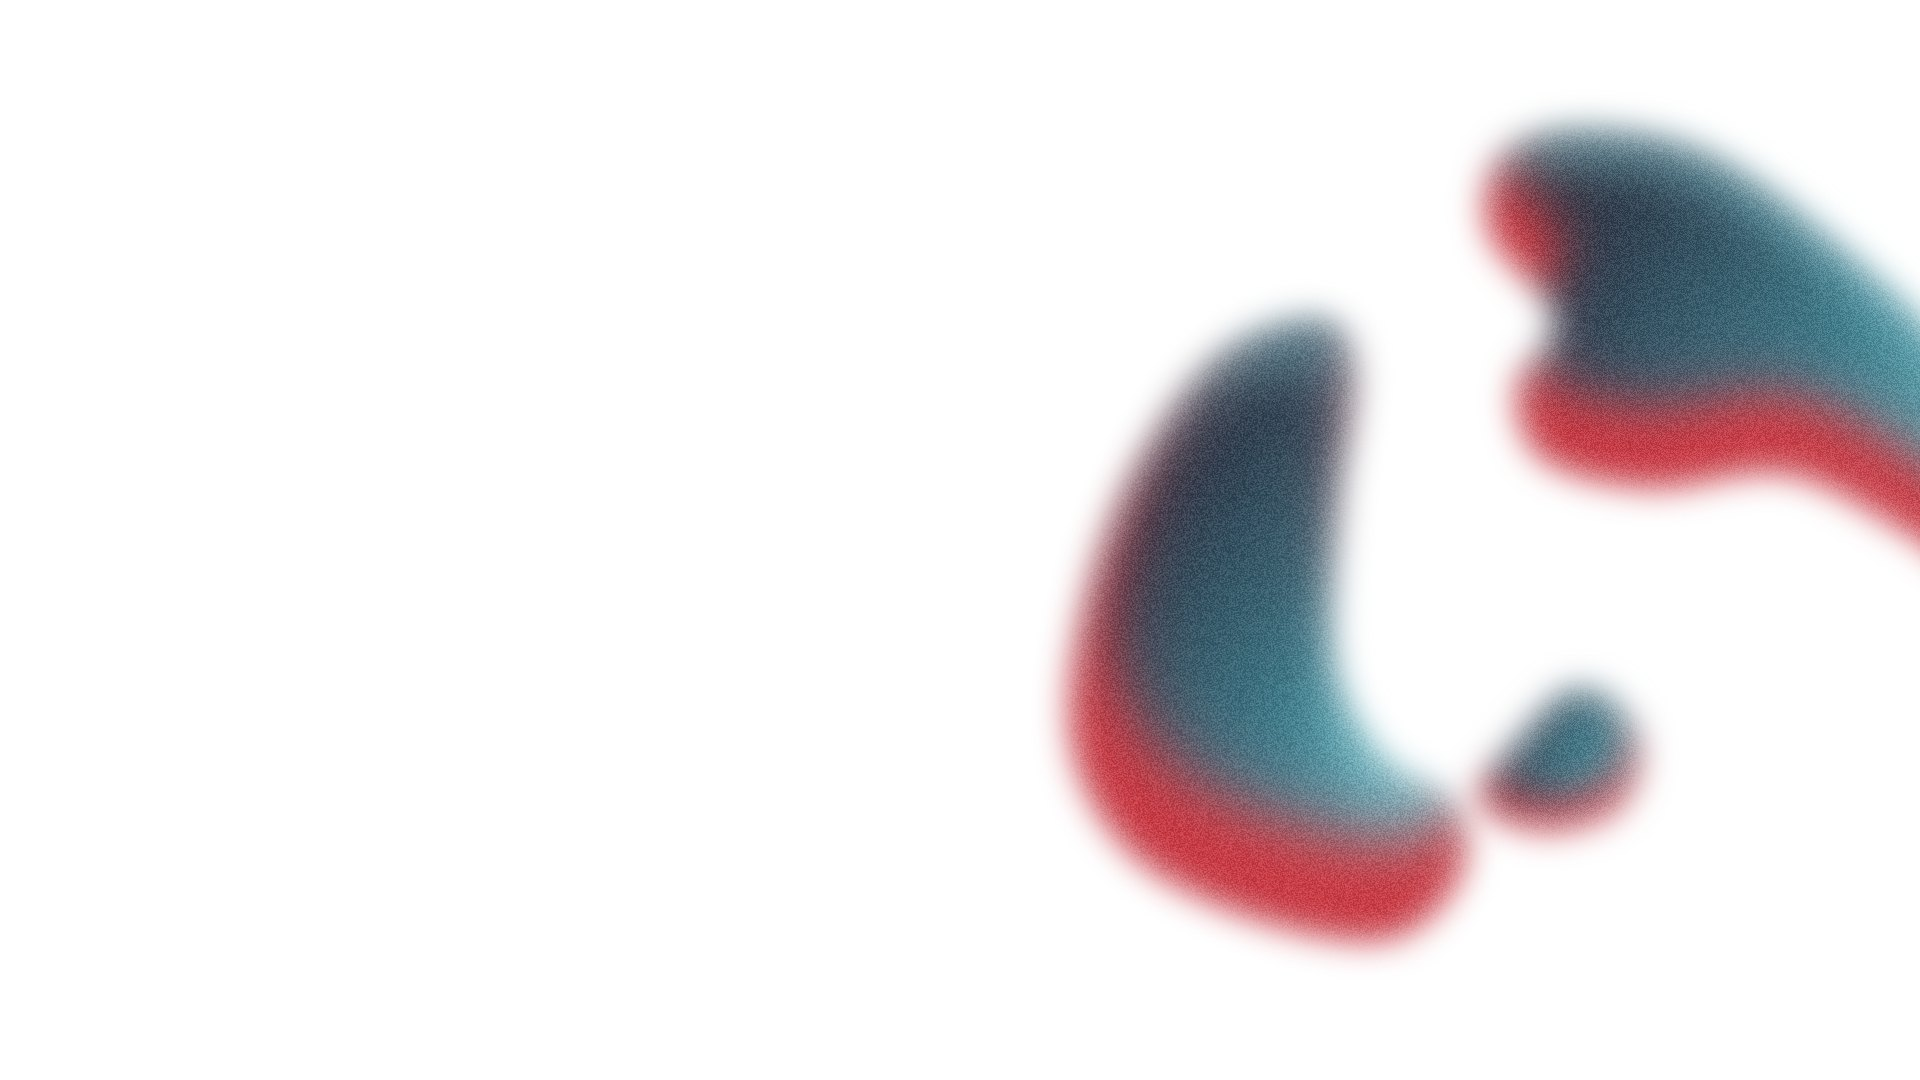
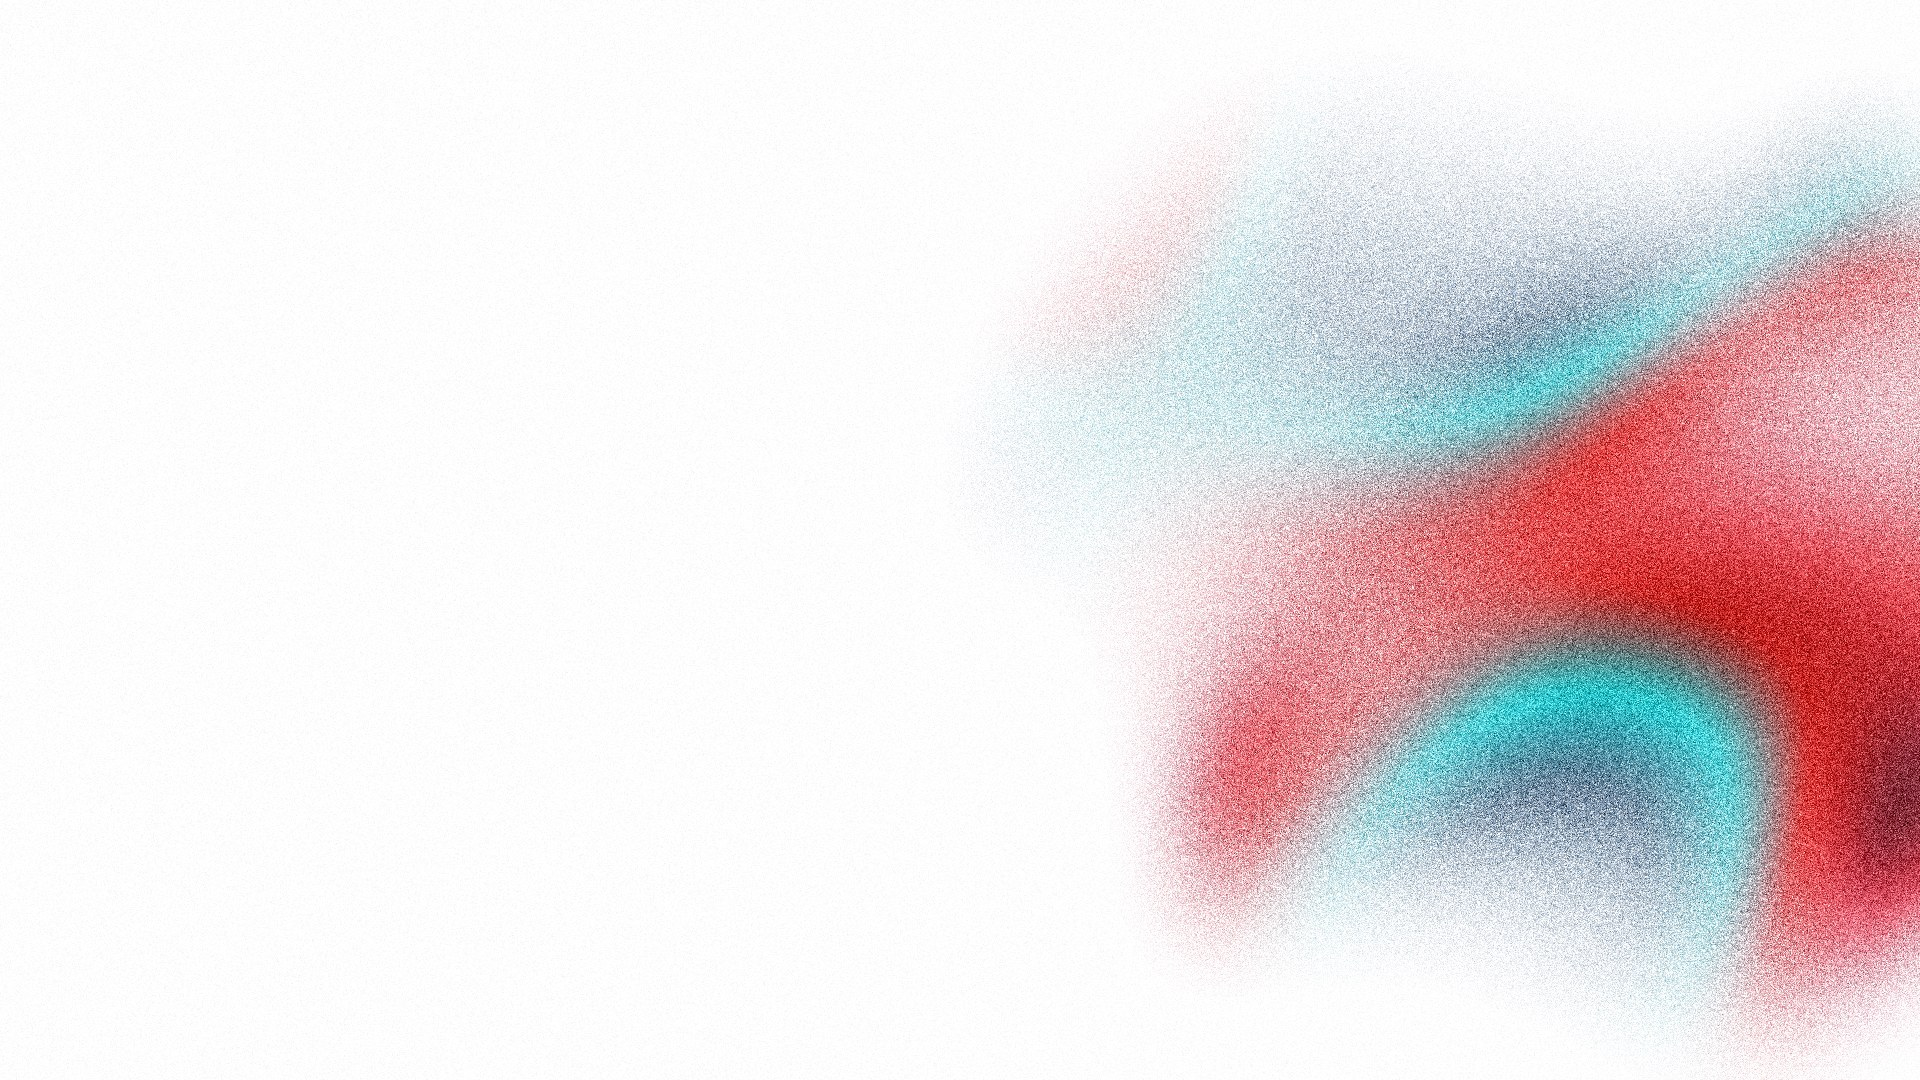
Replace the shape family with the Noisia bloom
The outlined shapes read too literal. make_shapes.py now renders an
abstract colour field: domain-warped density that dissolves into white
through dithered grain, muted cyan and red that saturate towards the
official #00EEEE and #EE0B00 where the field is densest, a deep navy
core, and intense grain. Covers, statements and closings carry a large
bloom on the right; content slides a small faint one on an edge.

diff --git a/packages/pitch-kit/commercial/builder/make_shapes.py b/packages/pitch-kit/commercial/builder/make_shapes.py
@@ -1,208 +1,133 @@
 #!/usr/bin/env python3
 """
-make_shapes.py — the Noisia shape family for commercial decks, rendered by code.
+make_shapes.py — the Noisia bloom: abstract colour fields for commercial covers and backgrounds.
 
-    python3 commercial/builder/make_shapes.py --sheet out.png       # the family, to choose
-    python3 commercial/builder/make_shapes.py --build                # writes assets/shapes/*.png
+    python3 commercial/builder/make_shapes.py --build            # writes assets/shapes/*.jpg
+    python3 commercial/builder/make_shapes.py --build --only cover,closing
+    python3 commercial/builder/make_shapes.py --sheet out.png    # every composition, to review
 
-The shapes replace the people illustration on covers and closings, and appear as a faint
-fragment on content slides. They follow the method of the brand's Figma explorations:
+What it draws, as agreed with the brand (oct 2026): no outlined shape the eye can name, but a
+colour field that blooms and dissolves into the white canvas.
 
-  · an organic closed path (a smooth spline through hand-placed points, never random);
-  · a linear gradient fill, cyan to deep teal to charcoal;
-  · three inner shadows: cyan #95E6F1 at 40% from the top (y +66, blur 24), and red #FF464C
-    (y -106, blur 30) plus #C7313D (y -116, blur 64) from the bottom, which give the red rim;
-  · a layer blur of 64;
-  · duo noise on top: black and white at 25%, 90% density, 1.5px grain.
+  · Density: a few anisotropic gaussian blobs, domain-warped by low-frequency waves so the field
+    flows like a mesh gradient and never reads as a drawn object.
+  · Colour: a second warped field places cyan and red. At the edges they are muted and dusty; where
+    the field is densest they saturate towards the official #00EEEE and #EE0B00, and the very core
+    sinks into the brand's deep #061218.
+  · Edges: the alpha falls off with a long smoothstep and is dithered with grain, so the colour
+    dissolves into white with no rim or halo.
+  · Grain: intense luminance noise over the colour, a whisper over the white. The grain is what
+    sets these apart from a generic gradient.
 
-Everything is measured on the 1920x1080 slide, so a shape drawn at slide size here looks the
-same as in Figma. Output is RGBA PNG, composed later on white by the builder.
+Covers, statements and closings carry a large bloom on the right (text lives on the left). Content
+slides carry a small, faint bloom on the middle of an edge: every corner holds chrome (logo,
+noisia.ai, the tagline, the slide number). Output is opaque JPEG on white, used as the slide
+background by noisia_pptx.py.
 """
 import argparse, math, os, warnings
-warnings.filterwarnings("ignore", category=DeprecationWarning)
 import numpy as np
-from PIL import Image, ImageDraw, ImageFilter
+from PIL import Image, ImageFilter
 
+warnings.filterwarnings("ignore", category=DeprecationWarning)
 HERE = os.path.dirname(os.path.abspath(__file__))
 OUT = os.path.normpath(os.path.join(HERE, "..", "assets", "shapes"))
 
-# Points are fractions of the shape's own box, clockwise. Drawn to match the explorations.
-SHAPES = {
-    "crescent": [(0.30, 0.02), (0.42, 0.08), (0.48, 0.30), (0.58, 0.55), (0.75, 0.68), (0.95, 0.72),
-                 (1.00, 0.84), (0.88, 0.97), (0.55, 1.00), (0.25, 0.95), (0.05, 0.78), (0.00, 0.45),
-                 (0.10, 0.15)],
-    "wing": [(0.02, 0.06), (0.16, 0.00), (0.40, 0.05), (0.66, 0.26), (0.92, 0.56), (1.00, 0.82),
-             (0.92, 0.97), (0.78, 0.86), (0.55, 0.73), (0.30, 0.76), (0.10, 0.70), (0.05, 0.55),
-             (0.12, 0.40), (0.00, 0.22)],
-    "drop": [(0.55, 0.00), (0.85, 0.10), (1.00, 0.45), (0.85, 0.85), (0.45, 1.00), (0.10, 0.90),
-             (0.00, 0.70), (0.20, 0.40)],
-    "star": [(0.00, 0.44), (0.14, 0.32), (0.36, 0.30), (0.47, 0.12), (0.56, 0.02), (0.65, 0.14),
-             (0.72, 0.30), (0.90, 0.34), (1.00, 0.60), (0.86, 0.90), (0.45, 1.00), (0.20, 0.93),
-             (0.07, 0.76)],
-    "drip": [(0.00, 0.00), (1.00, 0.00), (1.00, 0.12), (0.76, 0.30), (0.59, 0.42), (0.545, 0.64),
-             (0.52, 0.78), (0.495, 0.64), (0.46, 0.42), (0.30, 0.33), (0.04, 0.30)],
-    "pebble": [(0.20, 0.05), (0.60, 0.00), (0.92, 0.18), (1.00, 0.55), (0.80, 0.92), (0.40, 1.00),
-               (0.08, 0.82), (0.00, 0.40)],
-}
+CYAN, RED, DEEP = (0, 238, 238), (238, 11, 0), (6, 18, 24)          # tokens: signal, tension, blob-dark
+NAVY = (14, 42, 68)                                                 # the deep blue of the reference
+MUTED = {"cyan": (112, 190, 202), "red": (214, 104, 116),            # what the colour fades into
+         "navy": (96, 126, 156), "pink": (232, 162, 178)}
 
-STOPS = [(0.0, (124, 214, 221)), (0.42, (62, 128, 144)), (0.78, (43, 59, 76)), (1.0, (42, 39, 51))]
-SHADOWS = [  # colour, alpha, dx, dy, blur
-    ((149, 230, 241), 0.40, 3, 66, 24),
-    ((255, 70, 76), 0.90, 0, -106, 30),
-    ((199, 49, 61), 0.85, 0, -116, 64),
-]
-LAYER_BLUR = 64
-
-
-def catmull(points, n=40):
-    pts = points + points[:3]
-    out = []
-    for i in range(len(points)):
-        p0, p1, p2, p3 = pts[i], pts[i + 1], pts[i + 2], pts[i + 3]
-        for t in np.linspace(0, 1, n, endpoint=False):
-            t2, t3 = t * t, t * t * t
-            x = 0.5 * ((2 * p1[0]) + (-p0[0] + p2[0]) * t + (2 * p0[0] - 5 * p1[0] + 4 * p2[0] - p3[0]) * t2
-                       + (-p0[0] + 3 * p1[0] - 3 * p2[0] + p3[0]) * t3)
-            y = 0.5 * ((2 * p1[1]) + (-p0[1] + p2[1]) * t + (2 * p0[1] - 5 * p1[1] + 4 * p2[1] - p3[1]) * t2
-                       + (-p0[1] + 3 * p1[1] - 3 * p2[1] + p3[1]) * t3)
-            out.append((x, y))
-    return out
-
-
-def blur(a, sigma):
-    """Gaussian blur of a float array through PIL (sigma in px)."""
-    if sigma <= 0:
-        return a
-    im = Image.fromarray(np.clip(a * 255, 0, 255).astype(np.uint8), "L")
-    return np.asarray(im.filter(ImageFilter.GaussianBlur(sigma)), dtype=np.float32) / 255
-
-
-def shift(a, dx, dy):
-    out = np.zeros_like(a)
-    h, w = a.shape
-    xs, xd = (slice(0, w - dx), slice(dx, w)) if dx >= 0 else (slice(-dx, w), slice(0, w + dx))
-    ys, yd = (slice(0, h - dy), slice(dy, h)) if dy >= 0 else (slice(-dy, h), slice(0, h + dy))
-    out[yd, xd] = a[ys, xs]
-    return out
-
-
-def render(name, w, h, angle=200, seed=7):
-    """One shape, w x h px at slide scale, as an RGBA image with room for its blur."""
-    pad = int(LAYER_BLUR * 1.6)
-    W, H = w + 2 * pad, h + 2 * pad
-    ss = 2
-    big = Image.new("L", (W * ss, H * ss), 0)
-    pts = [((pad + x * w) * ss, (pad + y * h) * ss) for x, y in catmull(SHAPES[name])]
-    ImageDraw.Draw(big).polygon(pts, fill=255)
-    mask = np.asarray(big.resize((W, H), Image.LANCZOS), dtype=np.float32) / 255
-
-    # linear gradient across the shape's box
-    yy, xx = np.mgrid[0:H, 0:W].astype(np.float32)
-    a = math.radians(angle)
-    proj = (xx - W / 2) * math.cos(a) + (yy - H / 2) * math.sin(a)
-    span = abs(w * math.cos(a)) + abs(h * math.sin(a))
-    t = np.clip(proj / span + 0.5, 0, 1)
-    rgb = np.zeros((H, W, 3), np.float32)
-    for c in range(3):
-        rgb[..., c] = np.interp(t, [s[0] for s in STOPS], [s[1][c] for s in STOPS])
-
-    # inner shadows: where the shifted shape does not cover, inside the shape
-    k = h / 730   # the Figma values were set on a shape about 730px tall; scale them with the shape
-    for col, op, dx, dy, b in SHADOWS:
-        outside = 1 - shift(mask, int(round(dx * k)), int(round(dy * k)))
-        sh = blur(outside, b * 0.8 * max(k, 0.4)) * mask * op
-        for c in range(3):
-            rgb[..., c] = rgb[..., c] * (1 - sh) + col[c] * sh
-
-    # layer blur on premultiplied colour
-    alpha = mask
-    pre = rgb * alpha[..., None]
-    sig = LAYER_BLUR / 4   # Figma's blur value reads as roughly 4x a gaussian sigma
-    pre = np.stack([blur(pre[..., c] / 255, sig) * 255 for c in range(3)], -1)
-    alpha = blur(alpha, sig)
-    rgb = np.where(alpha[..., None] > 1e-4, pre / np.maximum(alpha[..., None], 1e-4), 0)
-
-    # duo noise, 1.5px grain, 90% density, black and white at 25%
-    rnd = np.random.default_rng(seed)
-    gw, gh = W, H
-    g = rnd.random((gh, gw))
-    d = rnd.random((gh, gw)) < 0.9
-    grain = np.where(d, np.where(g < 0.5, -1.0, 1.0), 0.0).astype(np.float32)
-    grain = np.asarray(Image.fromarray(((grain + 1) * 127.5).astype(np.uint8)).resize((W, H), Image.NEAREST),
-                       dtype=np.float32) / 127.5 - 1
-    k = 0.085 * 255 * grain[..., None] * np.clip(alpha[..., None] * 1.6, 0, 1)
-    rgb = np.clip(rgb + np.where(k > 0, k * (1 - rgb / 255), k * (rgb / 255)), 0, 255)
-
-    out = np.dstack([rgb, alpha * 255]).astype(np.uint8)
-    return Image.fromarray(out), pad
-
-
-def place(canvas, name, box, rot=0, flip=False, opacity=1.0, angle=200, seed=7):
-    """Render `name` to fit box=(x, y, w, h) on the slide, rotate, and alpha-composite it."""
-    x, y, w, h = box
-    im, pad = render(name, w, h, angle, seed)
-    if flip:
-        im = im.transpose(Image.FLIP_LEFT_RIGHT)
-    if rot:
-        im = im.rotate(rot, resample=Image.BICUBIC, expand=True)
-    if opacity < 1:
-        r, g, b, a = im.split()
-        im = Image.merge("RGBA", (r, g, b, a.point(lambda v: int(v * opacity))))
-    cx, cy = x + w / 2, y + h / 2
-    canvas.alpha_composite(im, (int(cx - im.width / 2), int(cy - im.height / 2))) if \
-        cx - im.width / 2 >= 0 and cy - im.height / 2 >= 0 else _paste(canvas, im, cx - im.width / 2, cy - im.height / 2)
-
-
-def _paste(canvas, im, x, y):
-    x, y = int(x), int(y)
-    sx, sy = max(0, -x), max(0, -y)
-    crop = im.crop((sx, sy, min(im.width, canvas.width - x), min(im.height, canvas.height - y)))
-    canvas.alpha_composite(crop, (max(0, x), max(0, y)))
-
-
-# Compositions on the 1920x1080 slide. Covers keep the left 1000px clean for the copy.
+# Each composition: seed, blobs (cx, cy, rx, ry, rotation, weight) in canvas fractions, overall
+# strength (1 = covers, lower = content backgrounds), and the red share of the colour field (0..1).
 COMPOSITIONS = {
-    "cover": [("crescent", (1090, 320, 440, 600), -18, False, 1.0, 200, 1),
-              ("drop", (1480, 690, 160, 140), 0, False, 1.0, 210, 2),
-              ("wing", (1490, 130, 540, 470), 0, False, 1.0, 215, 3)],
-    "closing": [("star", (1060, 260, 860, 640), -8, False, 1.0, 205, 4),
-                ("drop", (1640, 860, 150, 130), 20, False, 1.0, 210, 5)],
-    "statement": [("drip", (700, -40, 1300, 560), 0, False, 1.0, 190, 6)],
-    # content fragments: one per slide, rotating corners, faint
-    # Content fragments sit on the middle of an edge: every corner carries chrome (logo,
-    # noisia.ai, the tagline, the slide number) and a shape behind it hurts legibility.
-    "frag-1": [("wing", (1700, 300, 560, 480), 0, False, 0.36, 215, 11)],
-    "frag-2": [("crescent", (820, 900, 420, 520), 80, False, 0.34, 200, 12)],
-    "frag-3": [("pebble", (-300, 420, 460, 400), 0, False, 0.34, 205, 13)],
-    "frag-4": [("star", (1720, 560, 520, 430), -24, False, 0.34, 205, 14)],
-    "frag-5": [("wing", (1040, 930, 520, 420), 180, False, 0.32, 215, 15)],
-    "frag-6": [("crescent", (-260, 300, 420, 520), 200, True, 0.34, 200, 16)],
-    # A4 one-pager (1191 x 1684): one shape bleeding off the lower right, clear of the logo slot
-    "onepager": [("wing", (930, 1360, 520, 440), 180, False, 0.30, 215, 21)],
+    "cover":     dict(seed=11, strength=1.0, red=0.5,
+                      blobs=[(0.78, 0.42, 0.20, 0.13, 0.5, 1), (0.92, 0.70, 0.16, 0.10, -0.4, 1),
+                             (0.66, 0.70, 0.12, 0.08, 0.9, .8), (0.98, 0.22, 0.14, 0.10, 0.2, .7)]),
+    "closing":   dict(seed=23, strength=1.0, red=0.66, colour=(3, 1.1, 1.6, 0.12),
+                      blobs=[(0.80, 0.55, 0.22, 0.14, -0.3, 1), (0.95, 0.25, 0.14, 0.10, 0.6, .8),
+                             (0.68, 0.82, 0.12, 0.08, 0.2, .7)]),
+    "statement": dict(seed=31, strength=0.95, red=0.55, colour=(3, 1.1, 1.6, 0.12),
+                      blobs=[(0.70, 0.10, 0.26, 0.10, 0.1, 1), (0.95, 0.30, 0.14, 0.12, -0.5, .8),
+                             (0.55, 0.02, 0.14, 0.06, 0.0, .6)]),
+    "frag-1":    dict(seed=41, strength=0.55, red=0.4, colour=(3, 1.0, 1.6, 0.3), blobs=[(0.99, 0.45, 0.13, 0.20, 0.2, 1)]),
+    "frag-2":    dict(seed=42, strength=0.52, red=0.6, colour=(3, 1.0, 1.6, 0.3), blobs=[(0.55, 1.00, 0.20, 0.10, 0.1, 1)]),
+    "frag-3":    dict(seed=43, strength=0.52, red=0.5, colour=(3, 1.0, 1.6, 0.3), blobs=[(0.01, 0.50, 0.12, 0.20, -0.2, 1)]),
+    "frag-4":    dict(seed=44, strength=0.52, red=0.35, colour=(3, 1.0, 1.6, 0.3), blobs=[(0.99, 0.62, 0.13, 0.18, 0.4, 1)]),
+    "frag-5":    dict(seed=45, strength=0.50, red=0.55, colour=(3, 1.0, 1.6, 0.3), blobs=[(0.40, 1.00, 0.19, 0.09, -0.1, 1)]),
+    "frag-6":    dict(seed=46, strength=0.52, red=0.45, colour=(3, 1.0, 1.6, 0.3), blobs=[(0.01, 0.38, 0.12, 0.19, 0.3, 1)]),
+    "onepager":  dict(seed=51, strength=0.5, red=0.5, size=(1191, 1684), colour=(3, 1.0, 1.6, 0.3),
+                      blobs=[(1.0, 0.86, 0.22, 0.10, 0.3, 1)]),
 }
 
 
-SIZES = {"onepager": (1191, 1684)}
+def bloom(seed=11, strength=1.0, red=0.5, blobs=(), size=(1920, 1080), colour=(4, 1.4, 3.2, 0.0)):
+    """`colour` = (waves, amplitude, frequency, floor) of the field that places navy, cyan and
+    red. Fewer, slower waves give broad zones; a floor above 0 keeps navy out of small blooms."""
+    W, H = size
+    S = 4                                       # the field is low frequency: compute at 1/4 size
+    w, h = W // S, H // S
+    rng = np.random.default_rng(seed)
+    yy, xx = np.mgrid[0:h, 0:w].astype(np.float32)
+    X, Y = xx / w, yy / h
+
+    def lowfreq(n, amp, k=3.2):
+        f = np.zeros_like(X)
+        for _ in range(n):
+            kx, ky = rng.uniform(-k, k, 2)
+            f += np.sin((kx * X * 1.7 + ky * Y) * math.pi + rng.uniform(0, 2 * math.pi))
+        return f / n * amp
+
+    Xw, Yw = X + lowfreq(5, 0.16), Y + lowfreq(5, 0.16)
+    D = np.zeros_like(X)
+    for cx, cy, rx, ry, rot, wt in blobs:
+        c, s = math.cos(rot), math.sin(rot)
+        dx, dy = Xw - cx, (Yw - cy) * (h / w)
+        u, v = dx * c + dy * s, -dx * s + dy * c
+        D += wt * np.exp(-((u / rx) ** 2 + (v / ry) ** 2))
+    D /= max(D.max(), 1e-6)
+    alpha = np.clip((D - 0.12) / 0.75, 0, 1)
+    alpha = alpha * alpha * (3 - 2 * alpha) * strength
+
+    # where cyan and where red: a warped field, biased by the composition's red share
+    n, amp, k, floor = colour
+    t = np.clip(0.5 + lowfreq(n, amp, k=k) + (red - 0.5) * 0.8, floor, 1)
+    pos = [0.0, 0.3, 0.62, 1.0]
+    muted = np.array([MUTED["navy"], MUTED["cyan"], MUTED["red"], MUTED["pink"]], np.float32)
+    strong = np.array([NAVY, CYAN, RED, (238, 40, 60)], np.float32)
+    rgb_m = np.stack([np.interp(t, pos, muted[:, k]) for k in range(3)], -1)
+    rgb_s = np.stack([np.interp(t, pos, strong[:, k]) for k in range(3)], -1)
+    # saturate towards the official colours only where the field is dense
+    sat = (np.clip((D - 0.42) / 0.5, 0, 1) ** 1.4 * 0.78)[..., None]
+    rgb = rgb_m * (1 - sat) + rgb_s * sat
+    core = (np.clip((D - 0.78) / 0.22, 0, 1) ** 1.5 * 0.45)[..., None]
+    rgb = rgb * (1 - core) + np.array(DEEP, np.float32) * core
+
+    def up(a, b):
+        im = Image.fromarray(a).resize((W, H), Image.BICUBIC).filter(ImageFilter.GaussianBlur(b))
+        return np.asarray(im, np.float32)
+
+    rgb_f = up(np.clip(rgb, 0, 255).astype(np.uint8), 6)
+    a_full = up((np.clip(alpha, 0, 1) * 255).astype(np.uint8), 10) / 255
+
+    nr = np.random.default_rng(seed + 1000)
+    dither = nr.normal(0, 1, (H, W)).astype(np.float32)
+    a_d = np.clip(a_full + dither * 0.44 * np.sqrt(np.clip(a_full * (1 - a_full), 0, 1)), 0, 1)
+    arr = 255 * (1 - a_d[..., None]) + rgb_f * a_d[..., None]
+    g = nr.normal(0, 1, (H, W)).astype(np.float32)
+    arr = arr + (g * (30 * np.clip(a_full * 1.5, 0, 1) + 4))[..., None]
+    return Image.fromarray(np.clip(arr, 0, 255).astype(np.uint8))
 
 
-def compose(name, base=(255, 255, 255, 255)):
-    c = Image.new("RGBA", SIZES.get(name, (1920, 1080)), base)
-    for shp, box, rot, flip, op, ang, seed in COMPOSITIONS[name]:
-        place(c, shp, box, rot, flip, op, ang, seed)
-    return c
+def compose(name):
+    return bloom(**COMPOSITIONS[name])
 
 
 def sheet(path):
-    tiles = []
-    for name in SHAPES:
-        c = Image.new("RGBA", (900, 700), (255, 255, 255, 255))
-        im, pad = render(name, 560, 460 if name != "drip" else 300)
-        c.alpha_composite(im, ((900 - im.width) // 2, (700 - im.height) // 2))
-        tiles.append(c)
-    W = 3 * 900
-    out = Image.new("RGB", (W, 2 * 700), "white")
+    names = [n for n in COMPOSITIONS if n != "onepager"]
+    tiles = [compose(n).resize((640, 360)) for n in names]
+    out = Image.new("RGB", (3 * 650 + 10, ((len(tiles) + 2) // 3) * 370 + 10), "#444")
     for i, t in enumerate(tiles):
-        out.paste(t.convert("RGB"), ((i % 3) * 900, (i // 3) * 700))
+        out.paste(t, (10 + (i % 3) * 650, 10 + (i // 3) * 370))
     out.save(path)
     return path
 
@@ -220,6 +145,6 @@ if __name__ == "__main__":
         for n in COMPOSITIONS:
             if a.only and n not in a.only.split(","):
                 continue
-            p = os.path.join(OUT, f"{n}.jpg")   # opaque on white; JPEG keeps the grain at a fifth of the weight
-            compose(n).convert("RGB").save(p, quality=86, optimize=True, progressive=True)
+            p = os.path.join(OUT, f"{n}.jpg")
+            compose(n).save(p, quality=88, optimize=True, progressive=True)
             print(p)

diff --git a/packages/pitch-kit/commercial/COMMERCIAL.md b/packages/pitch-kit/commercial/COMMERCIAL.md
@@ -32,15 +32,16 @@ no distingue qué compró de qué le vendieron, y todo empieza a verse hecho en 
 vive en portadas y fondos, nunca en la UI: las cards, la tipografía, los íconos y la retícula son
 los mismos del sistema de diseño.
 
-- **Portada, statement y cierre** llevan la familia de formas de Noisia sobre lienzo blanco, con el
-  texto a la izquierda y la forma a la derecha. Reemplaza a la ilustración de personas, que queda
-  para los estudios.
-- **Las slides de contenido** llevan un fragmento tenue de una forma que sale por la mitad de un
-  borde, nunca por una esquina: en las esquinas viven el logo, `noisia.ai`, el pie y el número.
-- **Las formas se hacen por código** (`builder/make_shapes.py`) con el método de las exploraciones
-  de marca en Figma: trazo orgánico, gradiente lineal de cyan a teal profundo a carbón, tres
-  sombras internas (cyan arriba, rojo `#FF464C` y `#C7313D` abajo), blur de capa y ruido duo. Una
-  forma nueva se agrega ahí, no se dibuja aparte.
+- **Portada, statement y cierre** llevan el *bloom* de Noisia sobre lienzo blanco, con el texto a
+  la izquierda y el color a la derecha. Reemplaza a la ilustración de personas, que queda para los
+  estudios.
+- **Las slides de contenido** llevan un bloom chico y tenue que sale por la mitad de un borde, nunca
+  por una esquina: en las esquinas viven el logo, `noisia.ai`, el pie y el número.
+- **El bloom se hace por código** (`builder/make_shapes.py`). No es una figura con contorno: es un
+  campo de color abstracto que se funde con el blanco. Colores apagados en las orillas que se
+  saturan hacia los oficiales, cyan `#00EEEE` y rojo `#EE0B00`, donde el color es más denso, con un
+  núcleo navy profundo; bordes disueltos con grano, sin halo; y grano intenso sobre el color, que es
+  lo que lo distingue de un degradado genérico. Una composición nueva se agrega ahí.
 - **UI:** cards `#fafafa` con borde `#eeeeee` y radio 16; íconos reales; sin sombras, sin bordes
   laterales, sin gradientes en un valor, sin eyebrows (§6).
 
